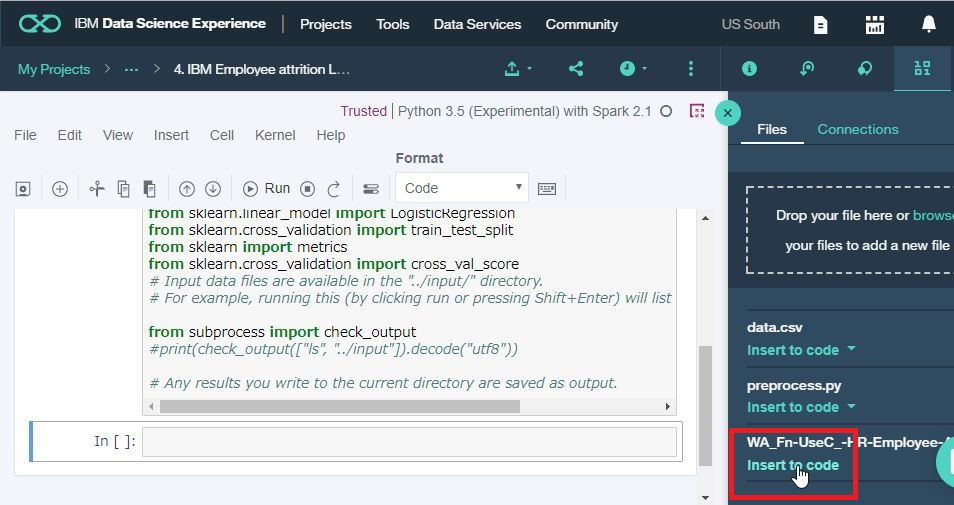
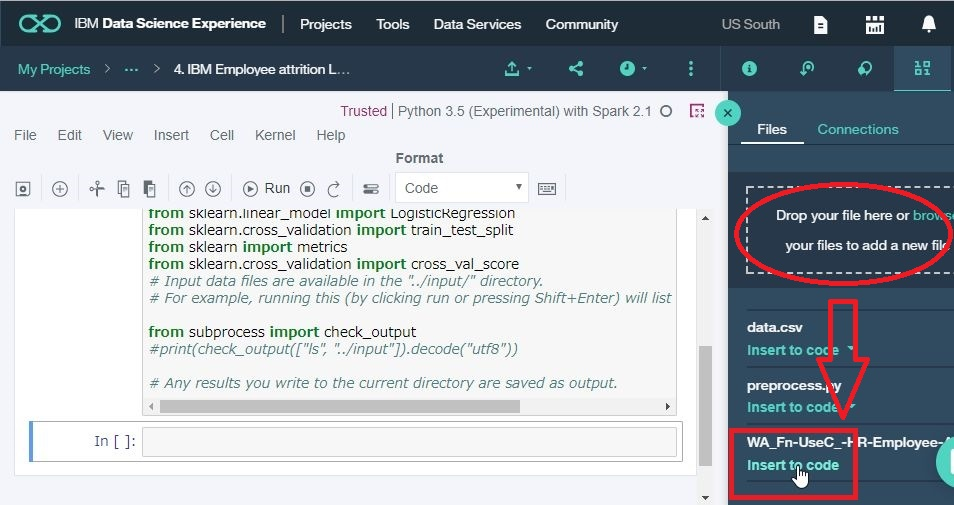
edited

Changed region(s): [[0.76, 0.3564, 1.0, 0.8317], [0.7904, 0.3861, 0.8208, 0.4158]]

diff --git a/FAQ/DSX FAQ.md b/FAQ/DSX FAQ.md
@@ -13,7 +13,7 @@
 * ノートブックを開きます。
 
  ![](pict/WS000052.JPG)
- 
+
 ---
 
 ## ノートブック(.ipynb)をアップロードするには
@@ -62,6 +62,7 @@ There you can click on the Name field to change the notebook name.
 
 ![](pict/WS000016.JPG)
 
+* ローカルファイルをドラッグ＆ドロップするか、ダイアログボックスを開いて選択して、アップロードします。そうすると、ファイル名が表示されます。左側のノートブックで空白のセルを選択した状態で、右側のファイル名の下の「insert to code」をクリックします。
 ![](pict/WS000017.JPG)
 
 ![](pict/WS000018.JPG)
